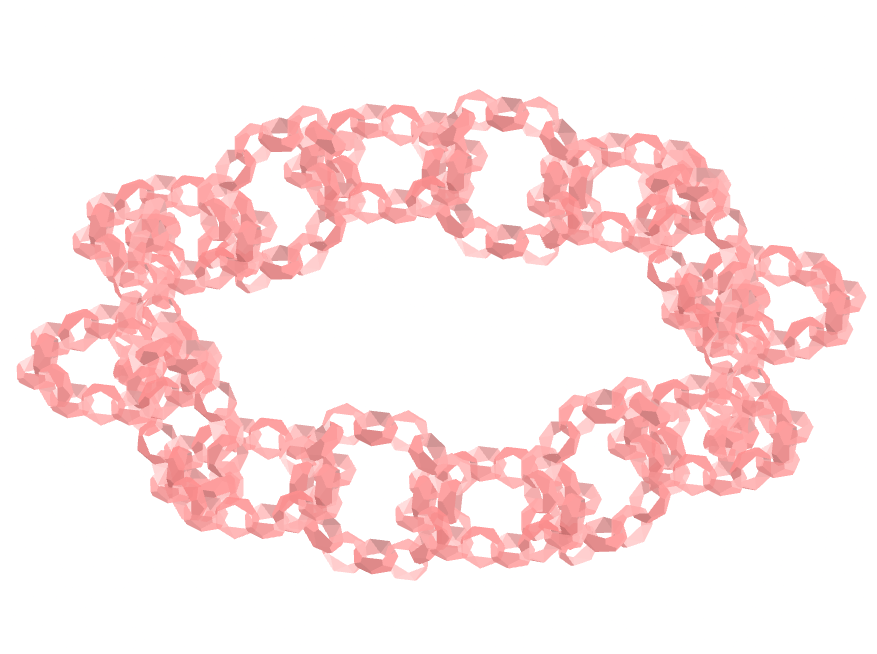
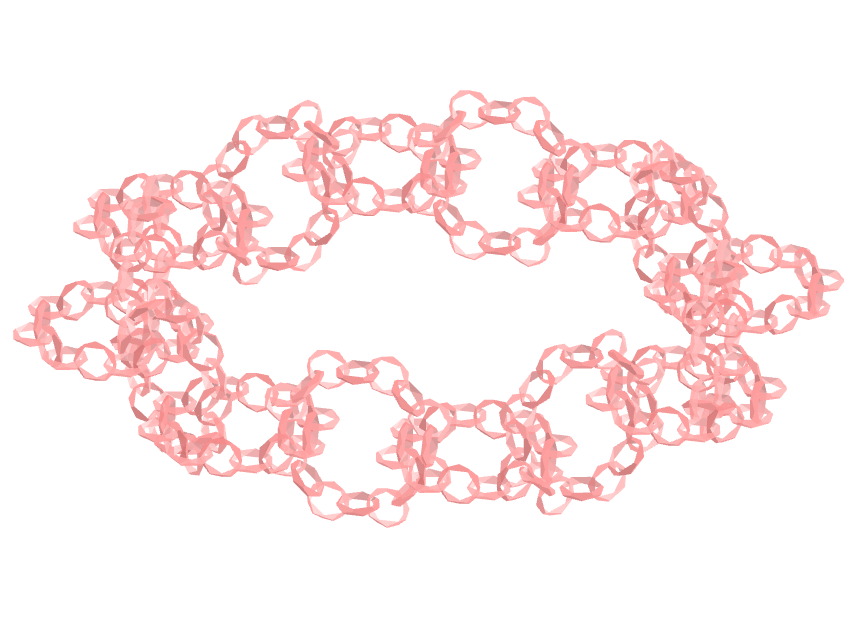
update

Changed region(s): [[0.0, 0.1212, 1.0, 0.9091]]

diff --git a/fractalnonconvex/vr/FractalHexagonalTrapezohedronToroid.htm b/fractalnonconvex/vr/FractalHexagonalTrapezohedronToroid.htm
@@ -20,23 +20,22 @@
 			<a-asset-item id="mt1" src="outros/c1.mtl"></a-asset-item>
 			<a-asset-item id="aq" src="outros/HexagonalTrapezohedronToroid.obj"></a-asset-item>
 			<a-asset-item id="aq1" src="outros/HexagonalTrapezohedronToroidL.obj"></a-asset-item>
-			<a-mixin id="p1c" mixin="fc anima4" rotation="0 90 0" position="2 0 0" mixin="anima4"></a-mixin>
-			<a-mixin id="p2c" mixin="fc anima4" rotation="0 45 0" position="1.414 0 1.414" mixin="anima4"></a-mixin>
-			<a-mixin id="p3c" mixin="fc anima4" rotation="0 0 0" position="0 0 2" mixin="anima4"></a-mixin>
-			<a-mixin id="p4c" mixin="fc anima4" rotation="0 -45 0" position="-1.414 0 1.414" mixin="anima4"></a-mixin>
-			<a-mixin id="p5c" mixin="fc anima4" rotation="0 90 0" position="-2 0 0" mixin="anima4"></a-mixin>
-			<a-mixin id="p6c" mixin="fc anima4" rotation="0 45 0" position="-1.414 0 -1.414" mixin="anima4"></a-mixin>
-			<a-mixin id="p7c" mixin="fc anima4" rotation="0 0 0" position="0 0 -2" mixin="anima4"></a-mixin>
-			<a-mixin id="p8c" mixin="fc anima4" rotation="0 -45 0" position="1.414 0 -1.414" mixin="anima4"></a-mixin>
-			<a-mixin id="p9c" mixin="fc1 anima4" rotation="90 0 0" position="2 0 0.828" mixin="anima4"></a-mixin>
-			<a-mixin id="p10c" mixin="fc1 anima4" rotation="90 0 0" position="0.828 0 2" mixin="anima4"></a-mixin>
-			<a-mixin id="p11c" mixin="fc1 anima4" rotation="90 0 0" position="-0.828 0 2" mixin="anima4"></a-mixin>
-			<a-mixin id="p12c" mixin="fc1 anima4" rotation="90 0 0" position="-2 0 0.828" mixin="anima4"></a-mixin>
-			<a-mixin id="p13c" mixin="fc1 anima4" rotation="90 0 0" position="-2 0 -0.828" mixin="anima4"></a-mixin>
-			<a-mixin id="p14c" mixin="fc1 anima4" rotation="90 0 0" position="-0.828 0 -2" mixin="anima4"></a-mixin>
-			<a-mixin id="p15c" mixin="fc1 anima4" rotation="90 0 0" position="0.828 0 -2" mixin="anima4"></a-mixin>
-			<a-mixin id="p16c" mixin="fc1 anima4" rotation="90 0 0" position="2 0 -0.828" mixin="anima4"></a-mixin>
-			<a-mixin id="anima4" animation__4='property: scale; dur: 4800; to: 0.7 0.7 0.7; easing: easeInOutQuad; delay: 13000; dir:alternate; loop:1;' animation__5='property: scale; dur: 5000; to: 0.7 0.7 0.7; easing: easeInOutQuad; delay: 27000; dir:alternate; loop:1;' animation__6='property: scale; dur: 5000;  to: 0.7 0.7 0.7; easing: easeInOutQuad; delay: 54000; dir:alternate; loop:1;'></a-mixin>
+			<a-mixin id="p1c" mixin="fc" rotation="0 90 0" position="2 0 0" mixin="anima4"></a-mixin>
+			<a-mixin id="p2c" mixin="fc" rotation="0 45 0" position="1.414 0 1.414" mixin="anima4"></a-mixin>
+			<a-mixin id="p3c" mixin="fc" rotation="0 0 0" position="0 0 2" mixin="anima4"></a-mixin>
+			<a-mixin id="p4c" mixin="fc" rotation="0 -45 0" position="-1.414 0 1.414" mixin="anima4"></a-mixin>
+			<a-mixin id="p5c" mixin="fc" rotation="0 90 0" position="-2 0 0" mixin="anima4"></a-mixin>
+			<a-mixin id="p6c" mixin="fc" rotation="0 45 0" position="-1.414 0 -1.414" mixin="anima4"></a-mixin>
+			<a-mixin id="p7c" mixin="fc" rotation="0 0 0" position="0 0 -2" mixin="anima4"></a-mixin>
+			<a-mixin id="p8c" mixin="fc" rotation="0 -45 0" position="1.414 0 -1.414" mixin="anima4"></a-mixin>
+			<a-mixin id="p9c" mixin="fc1" rotation="90 0 0" position="2 0 0.828" mixin="anima4"></a-mixin>
+			<a-mixin id="p10c" mixin="fc1" rotation="90 0 0" position="0.828 0 2" mixin="anima4"></a-mixin>
+			<a-mixin id="p11c" mixin="fc1" rotation="90 0 0" position="-0.828 0 2" mixin="anima4"></a-mixin>
+			<a-mixin id="p12c" mixin="fc1" rotation="90 0 0" position="-2 0 0.828" mixin="anima4"></a-mixin>
+			<a-mixin id="p13c" mixin="fc1" rotation="90 0 0" position="-2 0 -0.828" mixin="anima4"></a-mixin>
+			<a-mixin id="p14c" mixin="fc1" rotation="90 0 0" position="-0.828 0 -2" mixin="anima4"></a-mixin>
+			<a-mixin id="p15c" mixin="fc1" rotation="90 0 0" position="0.828 0 -2" mixin="anima4"></a-mixin>
+			<a-mixin id="p16c" mixin="fc1" rotation="90 0 0" position="2 0 -0.828" mixin="anima4"></a-mixin>
 			<a-mixin id="anima1" animation='property: rotation; dur: 12000; from: 0 0 0; to: 0 -135 0; easing: linear; delay: 11000'></a-mixin>
 			<a-mixin id="anima2" animation__2='property: rotation; dur: 24000; from: 0 -135 0; to: 180 90 120; easing: linear; delay: 27000;'></a-mixin>
 			<a-mixin id="anima3" animation__3='property: rotation; dur: 28000; from: 180 90 120; to: 0 0 0; easing: linear; delay: 56000;'></a-mixin>
@@ -44,7 +43,7 @@
 		
 		<a-entity rotation="0 0 0" scale="8 8 8" mixin="anima1 anima2 anima3">
 			<a-entity scale="0.85 0.85 0.85" id="nivel0">
-				<a-entity rotation="90 0 0" mixin="fc anima4"></a-entity>
+				<a-entity rotation="90 0 0" mixin="fc"></a-entity>
 				<a-entity rotation="90 0 0" mixin="ar"></a-entity>
 			</a-entity>
 			

diff --git a/fractalnonconvex/vr/FractalRegularTetragonalToroid.htm b/fractalnonconvex/vr/FractalRegularTetragonalToroid.htm
@@ -20,23 +20,22 @@
 			<a-asset-item id="mt1" src="outros/c1.mtl"></a-asset-item>
 			<a-asset-item id="aq" src="outros/RegularTetragonalToroid.obj"></a-asset-item>
 			<a-asset-item id="aq1" src="outros/RegularTetragonalToroidL.obj"></a-asset-item>
-			<a-mixin id="p1b" mixin="fc anima4" rotation="0 90 0" position="2 0 0" mixin="anima4"></a-mixin>
-			<a-mixin id="p2b" mixin="fc anima4" rotation="0 45 0" position="1.414 0 1.414" mixin="anima4"></a-mixin>
-			<a-mixin id="p3b" mixin="fc anima4" rotation="0 0 0" position="0 0 2" mixin="anima4"></a-mixin>
-			<a-mixin id="p4b" mixin="fc anima4" rotation="0 -45 0" position="-1.414 0 1.414" mixin="anima4"></a-mixin>
-			<a-mixin id="p5b" mixin="fc anima4" rotation="0 90 0" position="-2 0 0" mixin="anima4"></a-mixin>
-			<a-mixin id="p6b" mixin="fc anima4" rotation="0 45 0" position="-1.414 0 -1.414" mixin="anima4"></a-mixin>
-			<a-mixin id="p7b" mixin="fc anima4" rotation="0 0 0" position="0 0 -2" mixin="anima4"></a-mixin>
-			<a-mixin id="p8b" mixin="fc anima4" rotation="0 -45 0" position="1.414 0 -1.414" mixin="anima4"></a-mixin>
-			<a-mixin id="p9b" mixin="fc1 anima4" rotation="90 0 0" position="2 0 0.828" mixin="anima4"></a-mixin>
-			<a-mixin id="p10b" mixin="fc1 anima4" rotation="90 0 0" position="0.828 0 2" mixin="anima4"></a-mixin>
-			<a-mixin id="p11b" mixin="fc1 anima4" rotation="90 0 0" position="-0.828 0 2" mixin="anima4"></a-mixin>
-			<a-mixin id="p12b" mixin="fc1 anima4" rotation="90 0 0" position="-2 0 0.828" mixin="anima4"></a-mixin>
-			<a-mixin id="p13b" mixin="fc1 anima4" rotation="90 0 0" position="-2 0 -0.828" mixin="anima4"></a-mixin>
-			<a-mixin id="p14b" mixin="fc1 anima4" rotation="90 0 0" position="-0.828 0 -2" mixin="anima4"></a-mixin>
-			<a-mixin id="p15b" mixin="fc1 anima4" rotation="90 0 0" position="0.828 0 -2" mixin="anima4"></a-mixin>
-			<a-mixin id="p16b" mixin="fc1 anima4" rotation="90 0 0" position="2 0 -0.828"></a-mixin>
-			<a-mixin id="anima4" animation__4='property: scale; dur: 4800; to: 0.62 0.62 0.62; easing: easeInOutQuad; delay: 13000; dir:alternate; loop:1;' animation__5='property: scale; dur: 5000; to: 0.62 0.62 0.62; easing: easeInOutQuad; delay: 27000; dir:alternate; loop:1;' animation__6='property: scale; dur: 5000;  to: 0.62 0.62 0.62; easing: easeInOutQuad; delay: 54000; dir:alternate; loop:1;'></a-mixin>
+			<a-mixin id="p1b" mixin="fc" rotation="0 90 0" position="2 0 0" mixin="anima4"></a-mixin>
+			<a-mixin id="p2b" mixin="fc" rotation="0 45 0" position="1.414 0 1.414" mixin="anima4"></a-mixin>
+			<a-mixin id="p3b" mixin="fc" rotation="0 0 0" position="0 0 2" mixin="anima4"></a-mixin>
+			<a-mixin id="p4b" mixin="fc" rotation="0 -45 0" position="-1.414 0 1.414" mixin="anima4"></a-mixin>
+			<a-mixin id="p5b" mixin="fc" rotation="0 90 0" position="-2 0 0" mixin="anima4"></a-mixin>
+			<a-mixin id="p6b" mixin="fc" rotation="0 45 0" position="-1.414 0 -1.414" mixin="anima4"></a-mixin>
+			<a-mixin id="p7b" mixin="fc" rotation="0 0 0" position="0 0 -2" mixin="anima4"></a-mixin>
+			<a-mixin id="p8b" mixin="fc" rotation="0 -45 0" position="1.414 0 -1.414" mixin="anima4"></a-mixin>
+			<a-mixin id="p9b" mixin="fc1" rotation="90 0 0" position="2 0 0.828" mixin="anima4"></a-mixin>
+			<a-mixin id="p10b" mixin="fc1" rotation="90 0 0" position="0.828 0 2" mixin="anima4"></a-mixin>
+			<a-mixin id="p11b" mixin="fc1" rotation="90 0 0" position="-0.828 0 2" mixin="anima4"></a-mixin>
+			<a-mixin id="p12b" mixin="fc1" rotation="90 0 0" position="-2 0 0.828" mixin="anima4"></a-mixin>
+			<a-mixin id="p13b" mixin="fc1" rotation="90 0 0" position="-2 0 -0.828" mixin="anima4"></a-mixin>
+			<a-mixin id="p14b" mixin="fc1" rotation="90 0 0" position="-0.828 0 -2" mixin="anima4"></a-mixin>
+			<a-mixin id="p15b" mixin="fc1" rotation="90 0 0" position="0.828 0 -2" mixin="anima4"></a-mixin>
+			<a-mixin id="p16b" mixin="fc1" rotation="90 0 0" position="2 0 -0.828"></a-mixin>
 			<a-mixin id="anima1" animation='property: rotation; dur: 12000; from: 0 0 0; to: 0 -135 0; easing: linear; delay: 11000'></a-mixin>
 			<a-mixin id="anima2" animation__2='property: rotation; dur: 24000; from: 0 -135 0; to: 180 90 120; easing: linear; delay: 27000;'></a-mixin>
 			<a-mixin id="anima3" animation__3='property: rotation; dur: 28000; from: 180 90 120; to: 0 0 0; easing: linear; delay: 56000;'></a-mixin>
@@ -44,7 +43,7 @@
 		
 		<a-entity rotation="0 0 0" scale="8 8 8" mixin="anima1 anima2 anima3">
 			<a-entity scale="1 1 1" id="nivel0">
-				<a-entity rotation="90 0 0" mixin="fc anima4"></a-entity>
+				<a-entity rotation="90 0 0" mixin="fc"></a-entity>
 				<a-entity rotation="90 0 0" mixin="ar"></a-entity>
 			</a-entity>
 			

diff --git a/fractalnonconvex/vr/FractalAntiOctagonalIrisToroid.htm b/fractalnonconvex/vr/FractalAntiOctagonalIrisToroid.htm
@@ -20,26 +20,25 @@
 			<a-asset-item id="mt1" src="outros/c1.mtl"></a-asset-item>
 			<a-asset-item id="aq" src="outros/AntiOctagonalIrisToroid.obj"></a-asset-item>
 			<a-asset-item id="aq1" src="outros/AntiOctagonalIrisToroidL.obj"></a-asset-item>
-			<a-mixin id="p1a" mixin="fc anima4" rotation="180 90 0" position="2 0 0" mixin="anima4"></a-mixin>
-			<a-mixin id="p2a" mixin="fc anima4" rotation="180 45 0" position="1.414 0 1.414" mixin="anima4"></a-mixin>
-			<a-mixin id="p3a" mixin="fc anima4" rotation="180 0 0" position="0 0 2" mixin="anima4"></a-mixin>
-			<a-mixin id="p4a" mixin="fc anima4" rotation="180 -45 0" position="-1.414 0 1.414" mixin="anima4"></a-mixin>
-			<a-mixin id="p5a" mixin="fc anima4" rotation="0 90 0" position="-2 0 0" mixin="anima4"></a-mixin>
-			<a-mixin id="p6a" mixin="fc anima4" rotation="0 45 0" position="-1.414 0 -1.414" mixin="anima4"></a-mixin>
-			<a-mixin id="p7a" mixin="fc anima4" rotation="0 0 0" position="0 0 -2" mixin="anima4"></a-mixin>
-			<a-mixin id="p8a" mixin="fc anima4" rotation="0 -45 0" position="1.414 0 -1.414" mixin="anima4"></a-mixin>
-			<a-mixin id="p9a" mixin="fc1 anima4" rotation="90 0 0" position="2 0 0.828" mixin="anima4"></a-mixin>
-			<a-mixin id="p10a" mixin="fc1 anima4" rotation="90 0 0" position="0.828 0 2" mixin="anima4"></a-mixin>
-			<a-mixin id="p11a" mixin="fc1 anima4" rotation="90 0 0" position="-0.828 0 2" mixin="anima4"></a-mixin>
-			<a-mixin id="p12a" mixin="fc1 anima4" rotation="90 0 0" position="-2 0 0.828" mixin="anima4"></a-mixin>
-			<a-mixin id="p13a" mixin="fc1 anima4" rotation="90 0 0" position="-2 0 -0.828" mixin="anima4"></a-mixin>
-			<a-mixin id="p14a" mixin="fc1 anima4" rotation="90 0 0" position="-0.828 0 -2" mixin="anima4"></a-mixin>
-			<a-mixin id="p15a" mixin="fc1 anima4" rotation="90 0 0" position="0.828 0 -2" mixin="anima4"></a-mixin>
-			<a-mixin id="p16a" mixin="fc1 anima4" rotation="90 0 0" position="2 0 -0.828" mixin="anima4"></a-mixin>
-			<a-mixin id="anima4" animation__4='property: scale; dur: 4800; to: 0.65 0.65 0.65; easing: easeInOutQuad; delay: 13000; dir:alternate; loop:1;' animation__5='property: scale; dur: 5000; to: 0.65 0.65 0.65; easing: easeInOutQuad; delay: 27000; dir:alternate; loop:1;' animation__6='property: scale; dur: 5000;  to: 0.65 0.65 0.65; easing: easeInOutQuad; delay: 54000; dir:alternate; loop:1;'></a-mixin>
+			<a-mixin id="p1a" mixin="fc" rotation="180 90 0" position="2 0 0" mixin="anima4"></a-mixin>
+			<a-mixin id="p2a" mixin="fc" rotation="180 45 0" position="1.414 0 1.414" mixin="anima4"></a-mixin>
+			<a-mixin id="p3a" mixin="fc" rotation="180 0 0" position="0 0 2" mixin="anima4"></a-mixin>
+			<a-mixin id="p4a" mixin="fc" rotation="180 -45 0" position="-1.414 0 1.414" mixin="anima4"></a-mixin>
+			<a-mixin id="p5a" mixin="fc" rotation="0 90 0" position="-2 0 0" mixin="anima4"></a-mixin>
+			<a-mixin id="p6a" mixin="fc" rotation="0 45 0" position="-1.414 0 -1.414" mixin="anima4"></a-mixin>
+			<a-mixin id="p7a" mixin="fc" rotation="0 0 0" position="0 0 -2" mixin="anima4"></a-mixin>
+			<a-mixin id="p8a" mixin="fc" rotation="0 -45 0" position="1.414 0 -1.414" mixin="anima4"></a-mixin>
+			<a-mixin id="p9a" mixin="fc1" rotation="90 0 0" position="2 0 0.828" mixin="anima4"></a-mixin>
+			<a-mixin id="p10a" mixin="fc1" rotation="90 0 0" position="0.828 0 2" mixin="anima4"></a-mixin>
+			<a-mixin id="p11a" mixin="fc1" rotation="90 0 0" position="-0.828 0 2" mixin="anima4"></a-mixin>
+			<a-mixin id="p12a" mixin="fc1" rotation="90 0 0" position="-2 0 0.828" mixin="anima4"></a-mixin>
+			<a-mixin id="p13a" mixin="fc1" rotation="90 0 0" position="-2 0 -0.828" mixin="anima4"></a-mixin>
+			<a-mixin id="p14a" mixin="fc1" rotation="90 0 0" position="-0.828 0 -2" mixin="anima4"></a-mixin>
+			<a-mixin id="p15a" mixin="fc1" rotation="90 0 0" position="0.828 0 -2" mixin="anima4"></a-mixin>
+			<a-mixin id="p16a" mixin="fc1" rotation="90 0 0" position="2 0 -0.828" mixin="anima4"></a-mixin>
 			<a-mixin id="anima1" animation='property: rotation; dur: 12000; from: 0 0 0; to: 0 -135 0; easing: linear; delay: 11000'></a-mixin>
 			<a-mixin id="anima2" animation__2='property: rotation; dur: 24000; from: 0 -135 0; to: 180 90 120; easing: linear; delay: 27000;'></a-mixin>
-			<a-mixin id="anima3" animation__3='property: rotation; dur: 28000; from: 180 90 120; to: 0 0 0; easing: linear; delay: 56000;'></a-mixin>
+			<a-mixin id="anima3" animation__3='property: rotation; dur: 28000; from: 180 90 120; to: 0 25 0; easing: linear; delay: 56000;'></a-mixin>
 		</a-assets>
 		
 		<a-entity rotation="0 0 0" scale="8 8 8" mixin="anima1 anima2 anima3">

diff --git a/fractalnonconvex/vr/FractalHexagonalTrapezohedronAntiprismToroid.htm b/fractalnonconvex/vr/FractalHexagonalTrapezohedronAntiprismToroid.htm
@@ -20,23 +20,22 @@
 			<a-asset-item id="mt1" src="outros/c1.mtl"></a-asset-item>
 			<a-asset-item id="aq" src="outros/HexagonalTrapezohedronAntiprismToroid.obj"></a-asset-item>
 			<a-asset-item id="aq1" src="outros/HexagonalTrapezohedronAntiprismToroidL.obj"></a-asset-item>
-			<a-mixin id="p1c" mixin="fc anima4" rotation="180 90 0" position="2 0 0" mixin="anima4"></a-mixin>
-			<a-mixin id="p2c" mixin="fc anima4" rotation="180 45 0" position="1.414 0 1.414" mixin="anima4"></a-mixin>
-			<a-mixin id="p3c" mixin="fc anima4" rotation="180 0 0" position="0 0 2" mixin="anima4"></a-mixin>
-			<a-mixin id="p4c" mixin="fc anima4" rotation="180 -45 0" position="-1.414 0 1.414" mixin="anima4"></a-mixin>
-			<a-mixin id="p5c" mixin="fc anima4" rotation="0 90 0" position="-2 0 0" mixin="anima4"></a-mixin>
-			<a-mixin id="p6c" mixin="fc anima4" rotation="0 45 0" position="-1.414 0 -1.414" mixin="anima4"></a-mixin>
-			<a-mixin id="p7c" mixin="fc anima4" rotation="0 0 0" position="0 0 -2" mixin="anima4"></a-mixin>
-			<a-mixin id="p8c" mixin="fc anima4" rotation="0 -45 0" position="1.414 0 -1.414" mixin="anima4"></a-mixin>
-			<a-mixin id="p9c" mixin="fc1 anima4" rotation="90 -45 0" position="2 0 0.828" mixin="anima4"></a-mixin>
-			<a-mixin id="p10c" mixin="fc1 anima4" rotation="90 -90 0" position="0.828 0 2" mixin="anima4"></a-mixin>
-			<a-mixin id="p11c" mixin="fc1 anima4" rotation="90 -135 0" position="-0.828 0 2" mixin="anima4"></a-mixin>
-			<a-mixin id="p12c" mixin="fc1 anima4" rotation="90 0 0" position="-2 0 0.828" mixin="anima4"></a-mixin>
-			<a-mixin id="p13c" mixin="fc1 anima4" rotation="90 -225 0" position="-2 0 -0.828" mixin="anima4"></a-mixin>
-			<a-mixin id="p14c" mixin="fc1 anima4" rotation="90 -270 0" position="-0.828 0 -2" mixin="anima4"></a-mixin>
-			<a-mixin id="p15c" mixin="fc1 anima4" rotation="90 -315 0" position="0.828 0 -2" mixin="anima4"></a-mixin>
-			<a-mixin id="p16c" mixin="fc1 anima4" rotation="90 0 0" position="2 0 -0.828" mixin="anima4"></a-mixin>
-			<a-mixin id="anima4" animation__4='property: scale; dur: 4800; to: 0.34 0.34 0.34; easing: easeInOutQuad; delay: 13000; dir:alternate; loop:1;' animation__5='property: scale; dur: 5000; to: 0.34 0.34 0.34; easing: easeInOutQuad; delay: 27000; dir:alternate; loop:1;' animation__6='property: scale; dur: 5000;  to: 0.34 0.34 0.34; easing: easeInOutQuad; delay: 54000; dir:alternate; loop:1;'></a-mixin>
+			<a-mixin id="p1c" mixin="fc" rotation="180 90 0" position="2 0 0" mixin="anima4"></a-mixin>
+			<a-mixin id="p2c" mixin="fc" rotation="180 45 0" position="1.414 0 1.414" mixin="anima4"></a-mixin>
+			<a-mixin id="p3c" mixin="fc" rotation="180 0 0" position="0 0 2" mixin="anima4"></a-mixin>
+			<a-mixin id="p4c" mixin="fc" rotation="180 -45 0" position="-1.414 0 1.414" mixin="anima4"></a-mixin>
+			<a-mixin id="p5c" mixin="fc" rotation="0 90 0" position="-2 0 0" mixin="anima4"></a-mixin>
+			<a-mixin id="p6c" mixin="fc" rotation="0 45 0" position="-1.414 0 -1.414" mixin="anima4"></a-mixin>
+			<a-mixin id="p7c" mixin="fc" rotation="0 0 0" position="0 0 -2" mixin="anima4"></a-mixin>
+			<a-mixin id="p8c" mixin="fc" rotation="0 -45 0" position="1.414 0 -1.414" mixin="anima4"></a-mixin>
+			<a-mixin id="p9c" mixin="fc1" rotation="90 -45 0" position="2 0 0.828" mixin="anima4"></a-mixin>
+			<a-mixin id="p10c" mixin="fc1" rotation="90 -90 0" position="0.828 0 2" mixin="anima4"></a-mixin>
+			<a-mixin id="p11c" mixin="fc1" rotation="90 -135 0" position="-0.828 0 2" mixin="anima4"></a-mixin>
+			<a-mixin id="p12c" mixin="fc1" rotation="90 0 0" position="-2 0 0.828" mixin="anima4"></a-mixin>
+			<a-mixin id="p13c" mixin="fc1" rotation="90 -225 0" position="-2 0 -0.828" mixin="anima4"></a-mixin>
+			<a-mixin id="p14c" mixin="fc1" rotation="90 -270 0" position="-0.828 0 -2" mixin="anima4"></a-mixin>
+			<a-mixin id="p15c" mixin="fc1" rotation="90 -315 0" position="0.828 0 -2" mixin="anima4"></a-mixin>
+			<a-mixin id="p16c" mixin="fc1" rotation="90 0 0" position="2 0 -0.828" mixin="anima4"></a-mixin>
 			<a-mixin id="anima1" animation='property: rotation; dur: 12000; from: 0 0 0; to: 0 -135 0; easing: linear; delay: 11000'></a-mixin>
 			<a-mixin id="anima2" animation__2='property: rotation; dur: 24000; from: 0 -135 0; to: 180 90 120; easing: linear; delay: 27000;'></a-mixin>
 			<a-mixin id="anima3" animation__3='property: rotation; dur: 28000; from: 180 90 120; to: 0 0 0; easing: linear; delay: 56000;'></a-mixin>

diff --git a/fractalnonconvex/vr/FractalHexagonalAntiprismTrapezohedronToroid.htm b/fractalnonconvex/vr/FractalHexagonalAntiprismTrapezohedronToroid.htm
@@ -20,23 +20,22 @@
 			<a-asset-item id="mt1" src="outros/c1.mtl"></a-asset-item>
 			<a-asset-item id="aq" src="outros/HexagonalAntiprismTrapezohedronToroid.obj"></a-asset-item>
 			<a-asset-item id="aq1" src="outros/HexagonalAntiprismTrapezohedronToroidL.obj"></a-asset-item>
-			<a-mixin id="p1" mixin="fc anima4" rotation="0 90 0" position="2 0 0" mixin="anima4"></a-mixin>
-			<a-mixin id="p2" mixin="fc anima4" rotation="0 45 0" position="1.414 0 1.414" mixin="anima4"></a-mixin>
-			<a-mixin id="p3" mixin="fc anima4" rotation="0 0 0" position="0 0 2" mixin="anima4"></a-mixin>
-			<a-mixin id="p4" mixin="fc anima4" rotation="0 -45 0" position="-1.414 0 1.414" mixin="anima4"></a-mixin>
-			<a-mixin id="p5" mixin="fc anima4" rotation="0 90 0" position="-2 0 0" mixin="anima4"></a-mixin>
-			<a-mixin id="p6" mixin="fc anima4" rotation="0 45 0" position="-1.414 0 -1.414" mixin="anima4"></a-mixin>
-			<a-mixin id="p7" mixin="fc anima4" rotation="0 0 0" position="0 0 -2" mixin="anima4"></a-mixin>
-			<a-mixin id="p8" mixin="fc anima4" rotation="0 -45 0" position="1.414 0 -1.414" mixin="anima4"></a-mixin>
-			<a-mixin id="p9" mixin="fc1 anima4" rotation="90 0 0" position="2 0 0.828" mixin="anima4"></a-mixin>
-			<a-mixin id="p10" mixin="fc1 anima4" rotation="90 0 0" position="0.828 0 2" mixin="anima4"></a-mixin>
-			<a-mixin id="p11" mixin="fc1 anima4" rotation="90 0 0" position="-0.828 0 2" mixin="anima4"></a-mixin>
-			<a-mixin id="p12" mixin="fc1 anima4" rotation="90 0 0" position="-2 0 0.828" mixin="anima4"></a-mixin>
-			<a-mixin id="p13" mixin="fc1 anima4" rotation="90 0 0" position="-2 0 -0.828" mixin="anima4"></a-mixin>
-			<a-mixin id="p14" mixin="fc1 anima4" rotation="90 0 0" position="-0.828 0 -2" mixin="anima4"></a-mixin>
-			<a-mixin id="p15" mixin="fc1 anima4" rotation="90 0 0" position="0.828 0 -2" mixin="anima4"></a-mixin>
-			<a-mixin id="p16" mixin="fc1 anima4" rotation="90 0 0" position="2 0 -0.828" mixin="anima4"></a-mixin>
-			<a-mixin id="anima4" animation__4='property: scale; dur: 4800; to: 0.7 0.7 0.7; easing: easeInOutQuad; delay: 13000; dir:alternate; loop:1;' animation__5='property: scale; dur: 5000; to: 0.7 0.7 0.7; easing: easeInOutQuad; delay: 27000; dir:alternate; loop:1;' animation__6='property: scale; dur: 5000;  to: 0.7 0.7 0.7; easing: easeInOutQuad; delay: 54000; dir:alternate; loop:1;'></a-mixin>
+			<a-mixin id="p1" mixin="fc" rotation="0 90 0" position="2 0 0" mixin="anima4"></a-mixin>
+			<a-mixin id="p2" mixin="fc" rotation="0 45 0" position="1.414 0 1.414" mixin="anima4"></a-mixin>
+			<a-mixin id="p3" mixin="fc" rotation="0 0 0" position="0 0 2" mixin="anima4"></a-mixin>
+			<a-mixin id="p4" mixin="fc" rotation="0 -45 0" position="-1.414 0 1.414" mixin="anima4"></a-mixin>
+			<a-mixin id="p5" mixin="fc" rotation="0 90 0" position="-2 0 0" mixin="anima4"></a-mixin>
+			<a-mixin id="p6" mixin="fc" rotation="0 45 0" position="-1.414 0 -1.414" mixin="anima4"></a-mixin>
+			<a-mixin id="p7" mixin="fc" rotation="0 0 0" position="0 0 -2" mixin="anima4"></a-mixin>
+			<a-mixin id="p8" mixin="fc" rotation="0 -45 0" position="1.414 0 -1.414" mixin="anima4"></a-mixin>
+			<a-mixin id="p9" mixin="fc1" rotation="90 0 0" position="2 0 0.828" mixin="anima4"></a-mixin>
+			<a-mixin id="p10" mixin="fc1" rotation="90 0 0" position="0.828 0 2" mixin="anima4"></a-mixin>
+			<a-mixin id="p11" mixin="fc1" rotation="90 0 0" position="-0.828 0 2" mixin="anima4"></a-mixin>
+			<a-mixin id="p12" mixin="fc1" rotation="90 0 0" position="-2 0 0.828" mixin="anima4"></a-mixin>
+			<a-mixin id="p13" mixin="fc1" rotation="90 0 0" position="-2 0 -0.828" mixin="anima4"></a-mixin>
+			<a-mixin id="p14" mixin="fc1" rotation="90 0 0" position="-0.828 0 -2" mixin="anima4"></a-mixin>
+			<a-mixin id="p15" mixin="fc1" rotation="90 0 0" position="0.828 0 -2" mixin="anima4"></a-mixin>
+			<a-mixin id="p16" mixin="fc1" rotation="90 0 0" position="2 0 -0.828" mixin="anima4"></a-mixin>
 			<a-mixin id="anima1" animation='property: rotation; dur: 12000; from: 0 0 0; to: 0 -135 0; easing: linear; delay: 11000'></a-mixin>
 			<a-mixin id="anima2" animation__2='property: rotation; dur: 24000; from: 0 -135 0; to: 180 90 120; easing: linear; delay: 27000;'></a-mixin>
 			<a-mixin id="anima3" animation__3='property: rotation; dur: 28000; from: 180 90 120; to: 0 0 0; easing: linear; delay: 56000;'></a-mixin>
